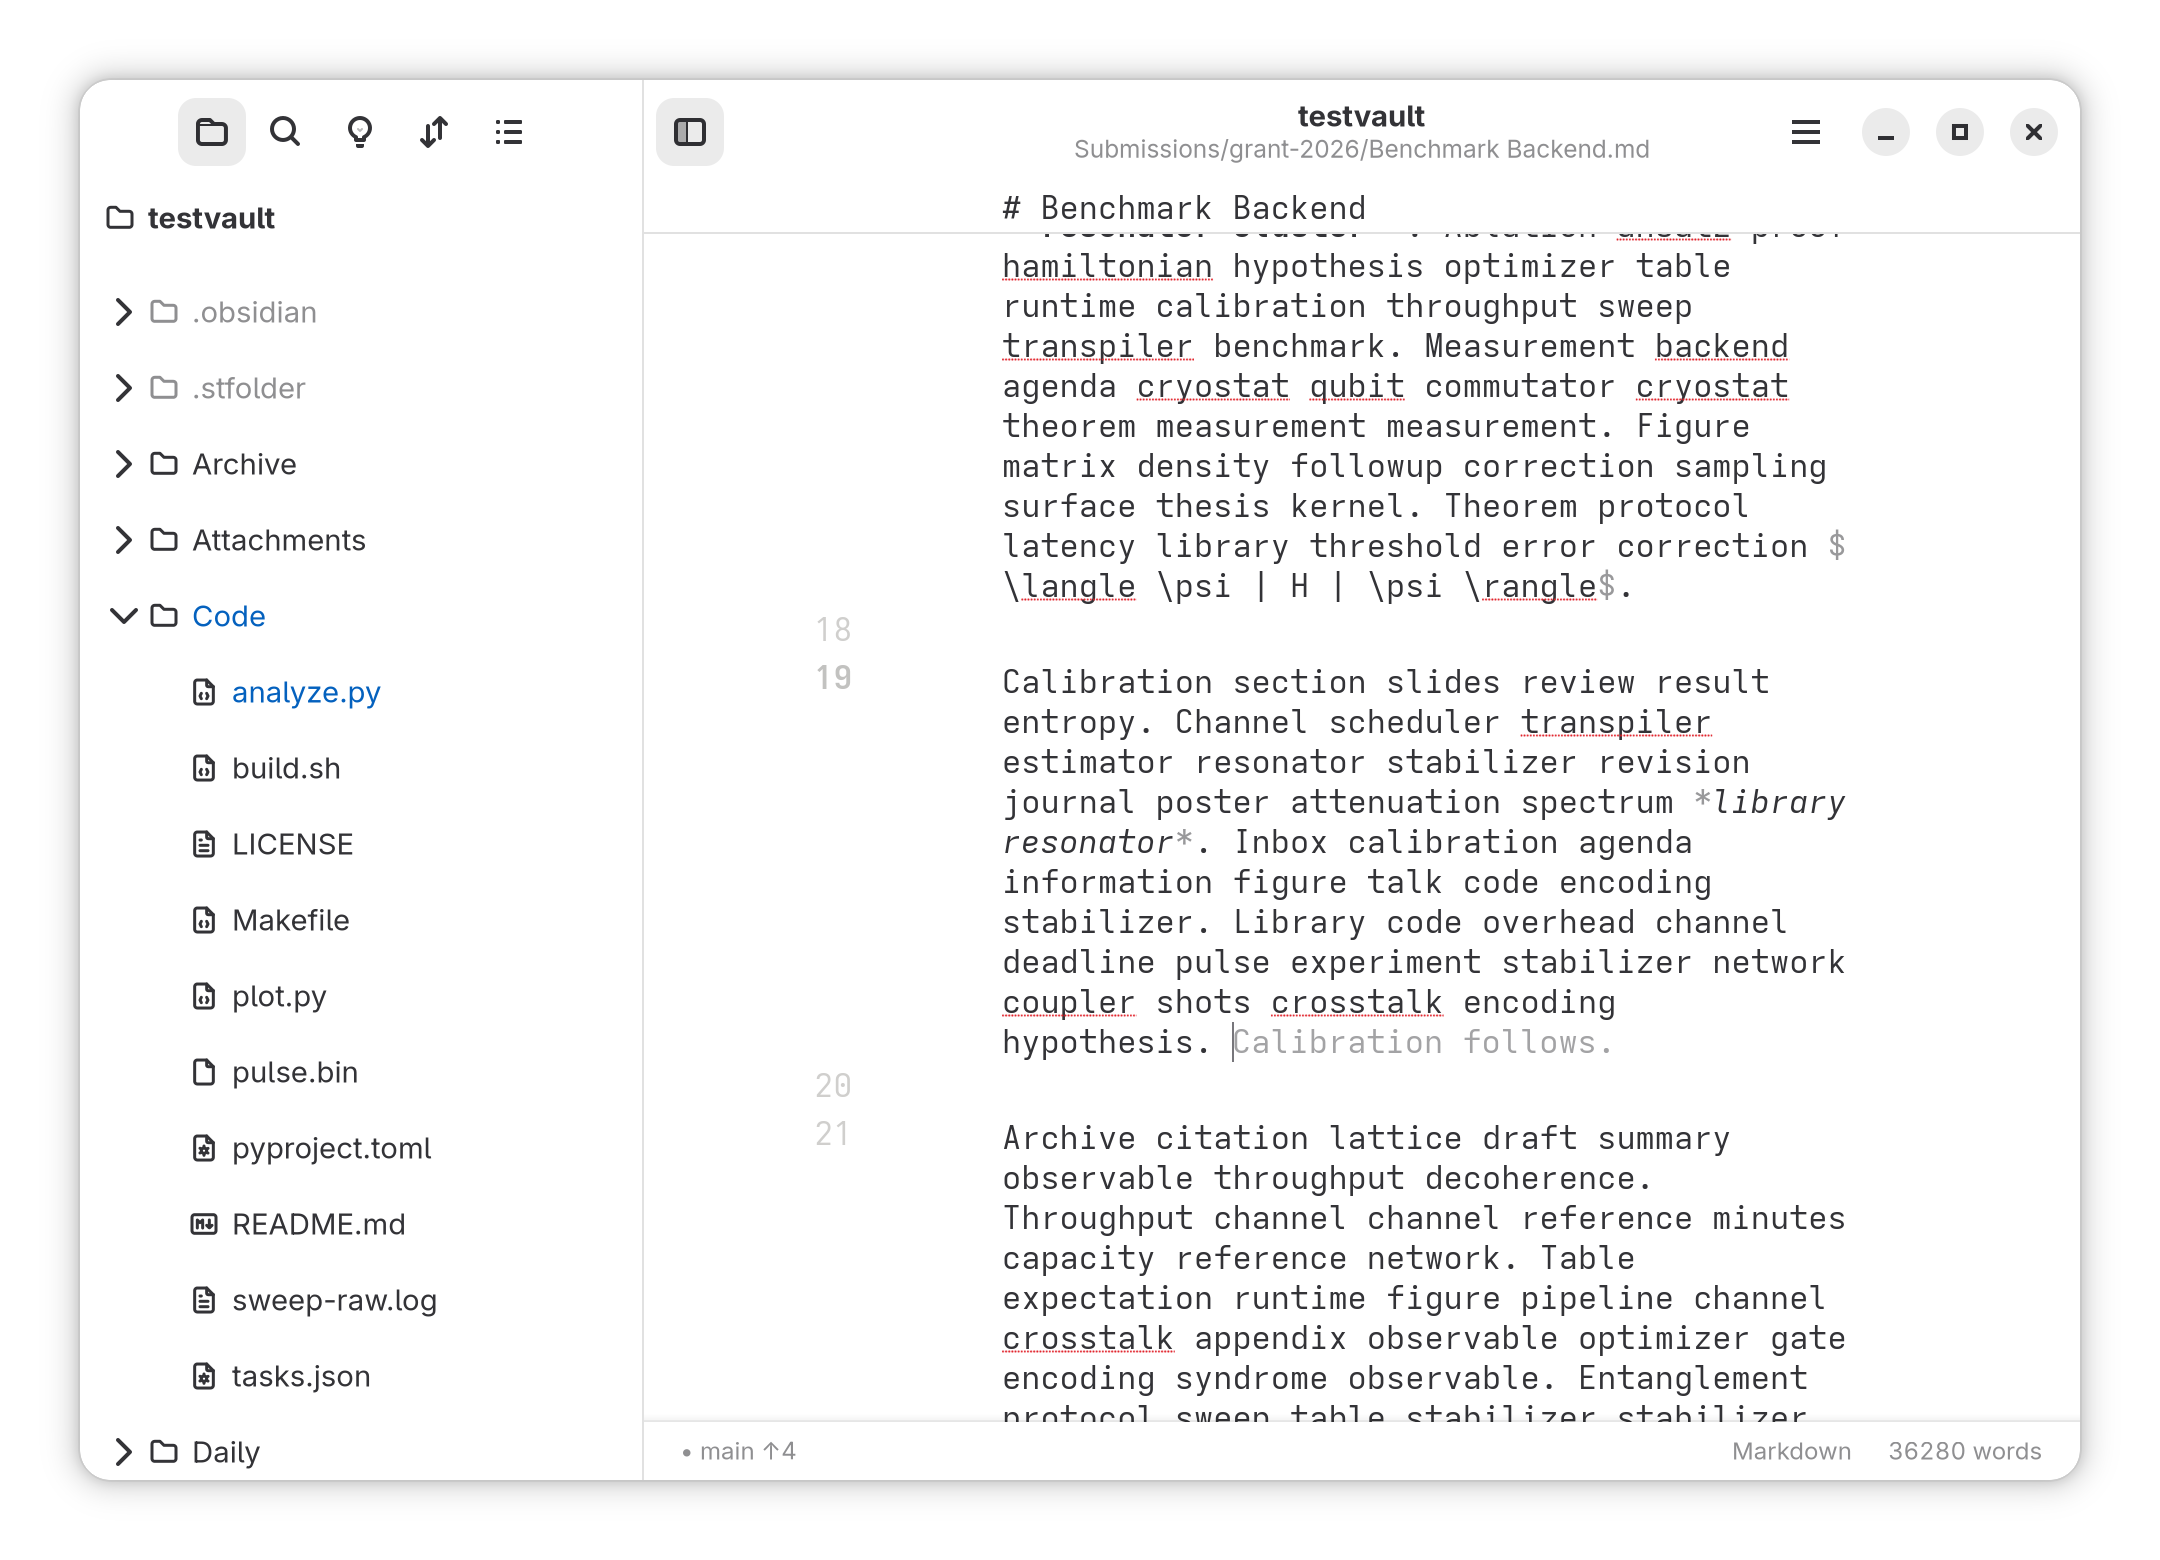
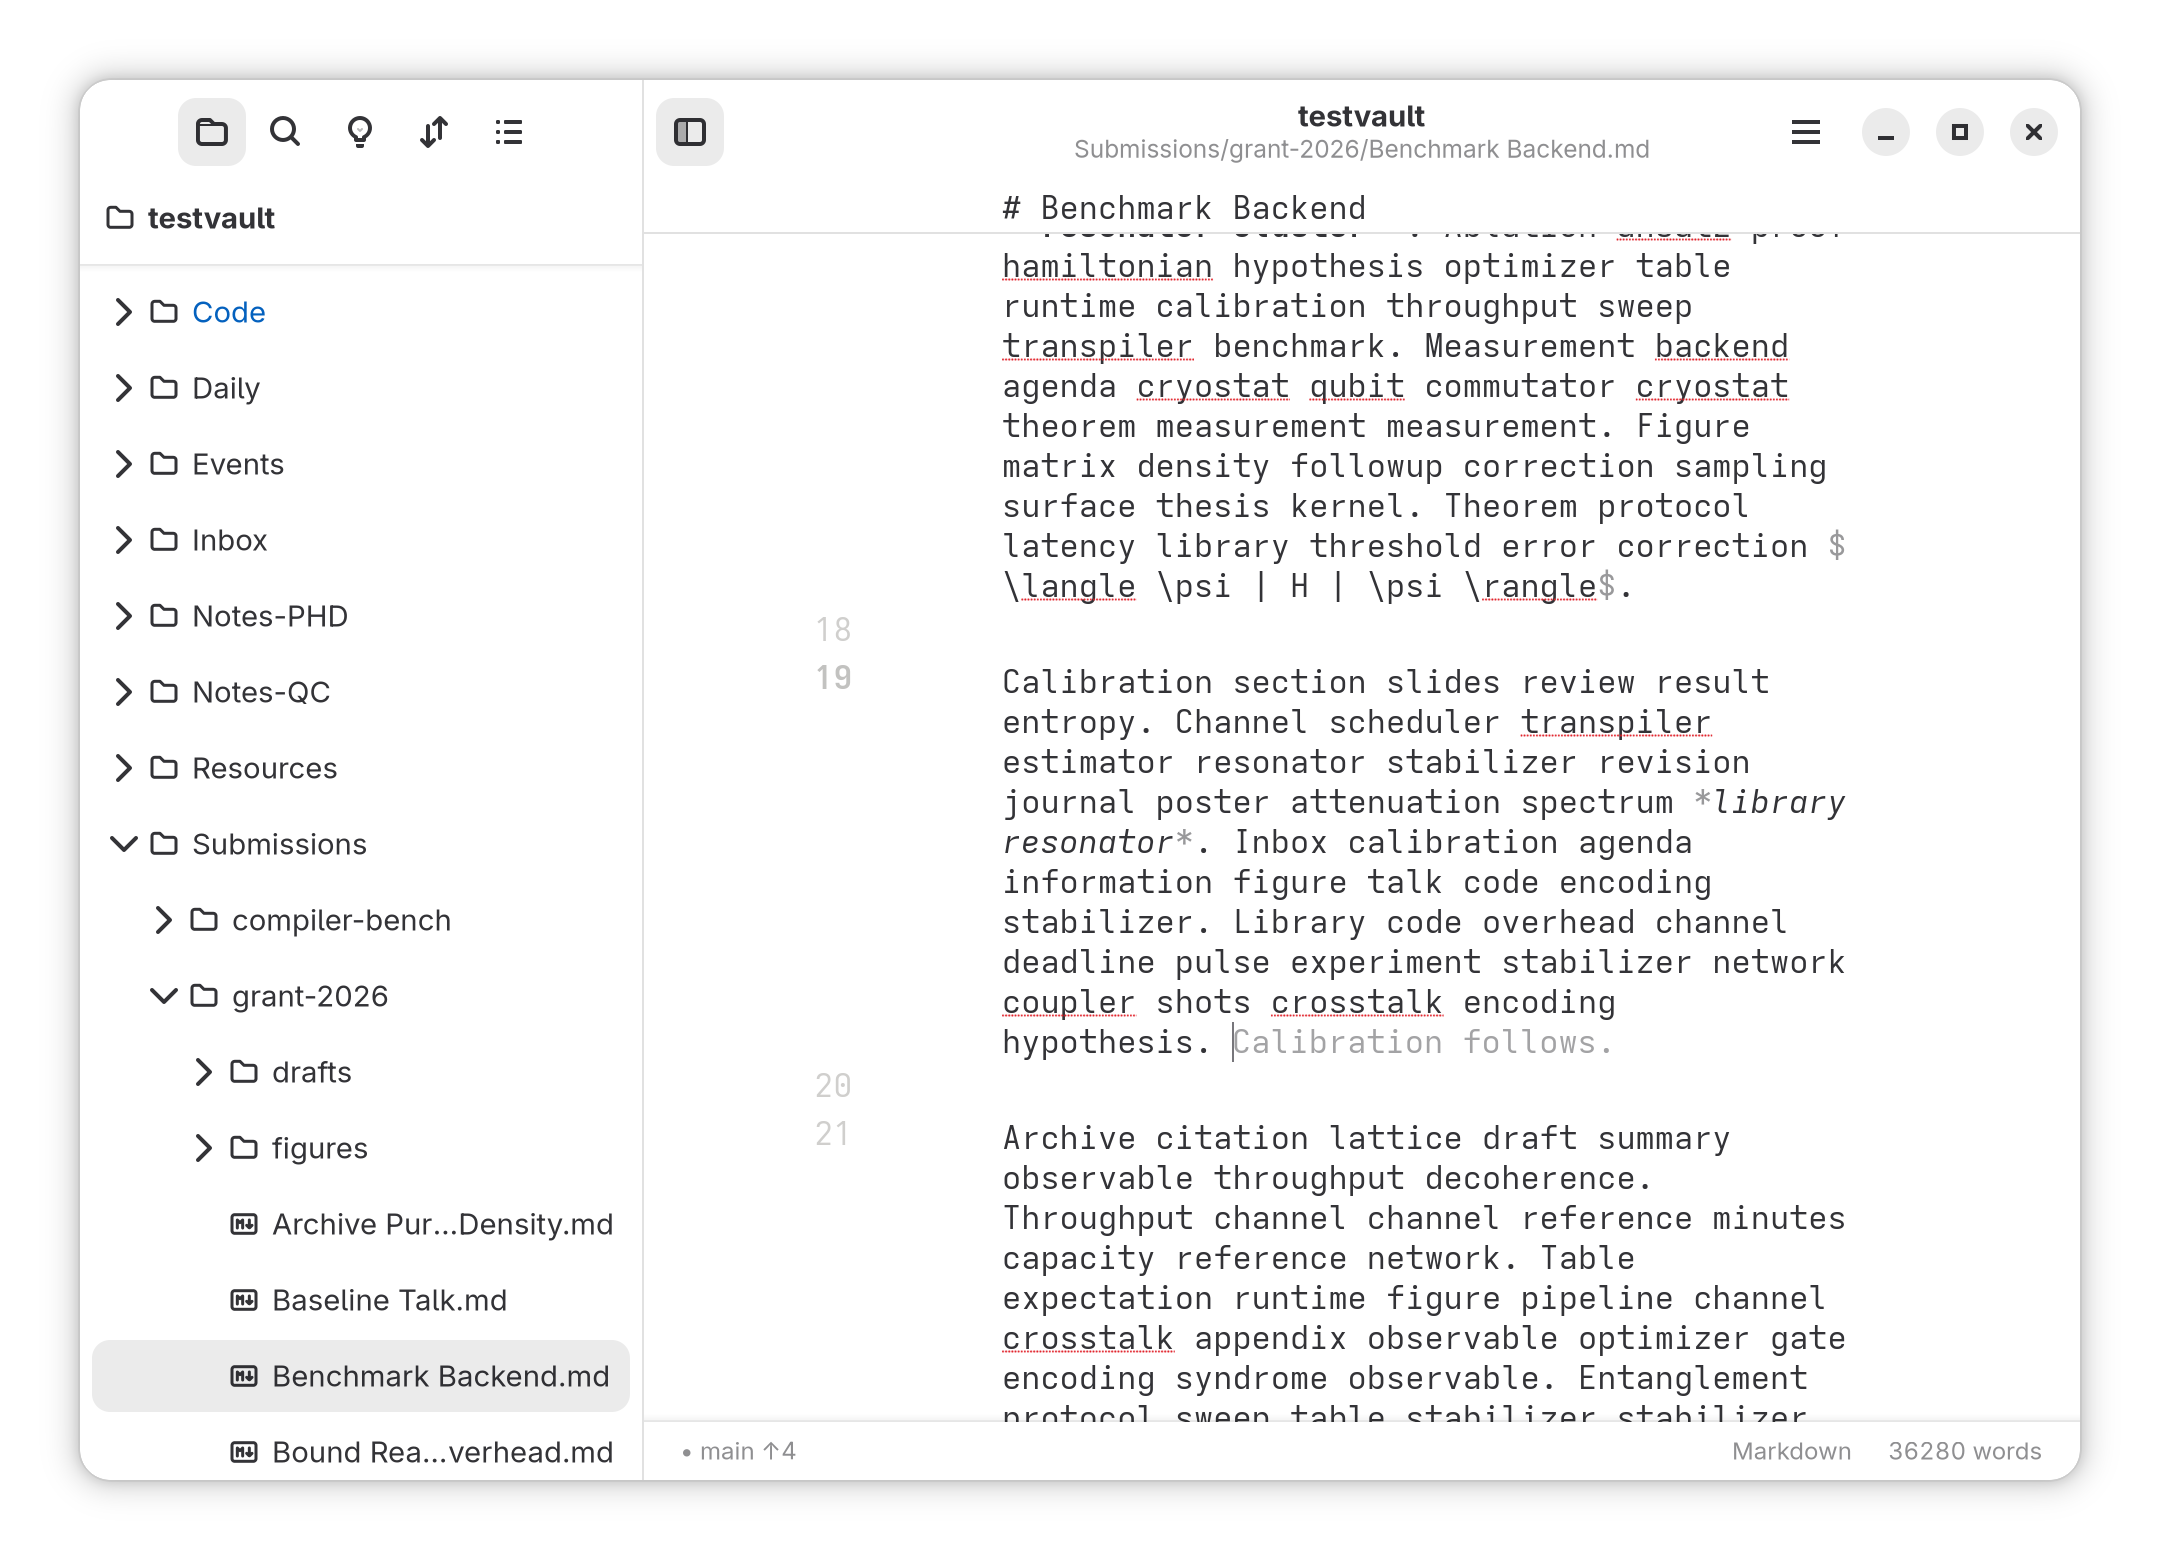
screenshots: scene 1 shows the open note's row lit, Code shut with its tint
The tree's selection follows the tab but never scrolls, so the open note's row sat below the
list while the changed analyze.py's tint read as the highlight. The scene now reveals the row.

Claude-Session: https://claude.ai/code/session_01GyTbFA7rjNuksndo95ALcU

diff --git a/apps/gtk/src/bench/shots.rs b/apps/gtk/src/bench/shots.rs
@@ -98,8 +98,9 @@ async fn scene_files(app: &Rc<App>, shot: &Shot) {
     let Some(tree) = app.tree.get() else {
         return println!("bench shot no_tree");
     };
-    // A folder's rows arrive after it opens, so each level waits for the one above it.
-    for folder in ["Code", "Submissions", "Submissions/grant-2026"] {
+    // A folder's rows arrive after it opens, so each level waits for the one above it. Code stays
+    // shut, its tint saying it holds a change: open, its rows would push the note's off the list.
+    for folder in ["Submissions", "Submissions/grant-2026"] {
         until(folder, 10_000, || {
             tree::find_row(tree.model(), folder).is_some()
         })
@@ -110,6 +111,13 @@ async fn scene_files(app: &Rc<App>, shot: &Shot) {
     }
     let note = "Submissions/grant-2026/Benchmark Backend.md";
     open_all(app, &[note]).await;
+    // The open note's row lit and on screen, as Reveal in Sidebar leaves it: the tree's selection
+    // follows the tab but never scrolls to it.
+    until("row", 10_000, || {
+        tree::find_row(tree.model(), note).is_some()
+    })
+    .await;
+    tree.reveal(note);
     let tab = tab(app, note);
     focus(app, &pane_of(app, note)).await;
     until("ghost_text", 30_000, || {
